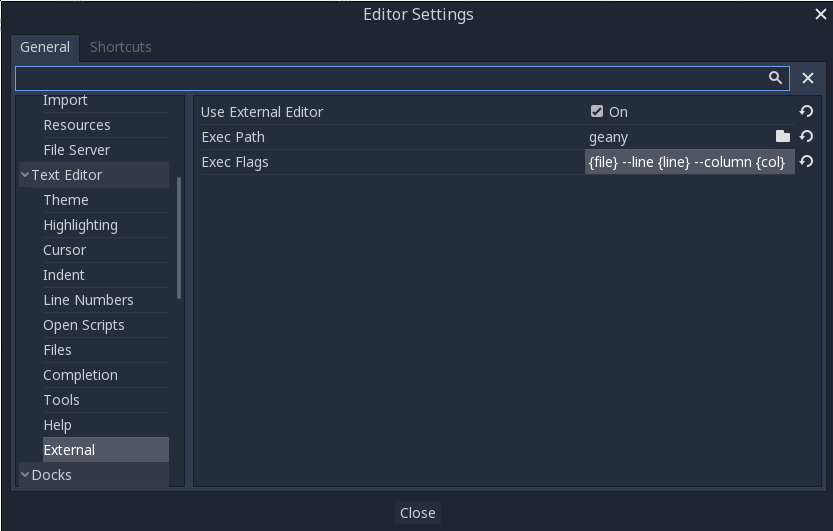
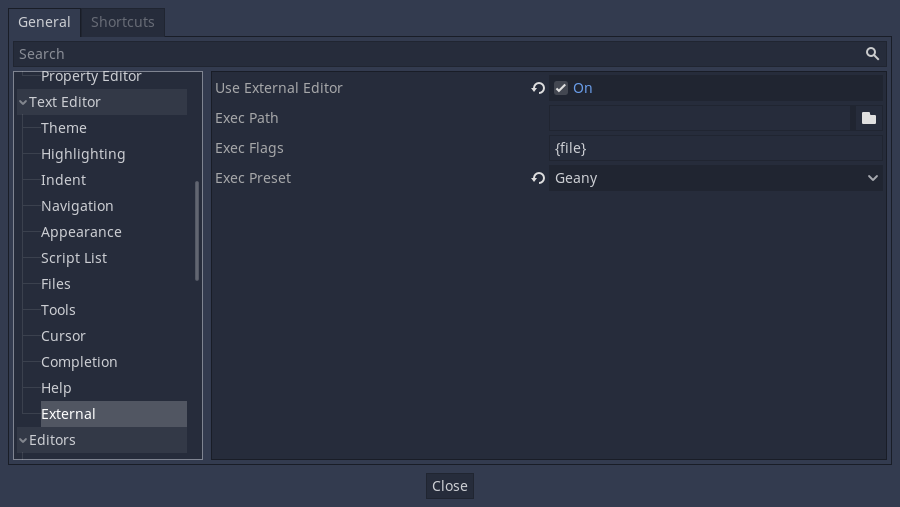
Update external editor page to explain presets

Changed region(s): [[0.0, 0.0, 1.0, 1.0], [0.1873, 0.1479, 0.4058, 0.5621], [0.593, 0.2663, 0.6555, 0.3846]]

diff --git a/getting_started/editor/external_editor.rst b/getting_started/editor/external_editor.rst
@@ -13,10 +13,16 @@ To enable an external text editor, browse to the relevant editor settings via:
 
 .. image:: img/editor_settings.png
 
-There are two fields: the executable path and command line flags. The flags
-allow you to integrate the editor with Godot, passing it the file path to open
-and other relevant arguments. Godot will replace the following placeholders in
-the flags string:
+You can choose your editor from a list of presets, which will cause Godot to
+use appropriate values for the executable path and command line flags settings.
+
+If your editor is at an unusual path, you can override the preset default by
+changing the Exec Path setting to point at your editor.
+
+Alternatively, you can use the "Custom" option and fill out both settings by
+hand. The flags allow you to integrate the editor with Godot, passing it the
+file path to open and other relevant arguments. Godot will replace the
+following placeholders in the flags string:
 
 +---------------------+-----------------------------------------------------+
 | Field in Exec Flags | Is replaced with                                    |
